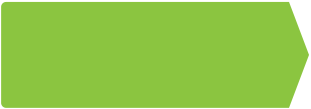
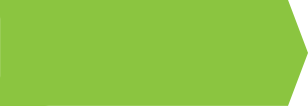
add responsive breakpoint styles

Changed region(s): [[0.0, 0.0, 1.0, 1.0]]

diff --git a/pages/index.tsx b/pages/index.tsx
@@ -5,6 +5,7 @@ import Image from "next/image";
 
 // assets
 import logo from "../public/assets/logo.png";
+import pointed from "../public/assets/pointed.png";
 
 const Home: NextPage = () => {
   return (
@@ -16,48 +17,66 @@ const Home: NextPage = () => {
       </Head>
 
       <div className="banner-container w-full h-screen bg-[#ebebeb]">
-        <div className="w-full h-full bg-[url('../public/assets/bg.png')] bg-no-repeat bg-cover bg-center pt-44 pb-16 flex flex-col justify-between">
-          <div className="tagline-container w-[55%] min-h-[230px]  py-10 px-32 flex justify-end gradient-white">
-            <p className="text-textColor text-4xl font-medium italic leading-[1]">
-              <div className="inline mr-4">
-                <Image src={logo} height="80" width="318" objectFit="inherit" />
+        <div className="background-container w-full h-full bg-[url('../public/assets/bg.png')] bg-no-repeat bg-cover bg-center pt-44 pb-5 md:pb-16 flex flex-col justify-between">
+          <div className="TAGLINE-CONTAINER w-[70%] md:w-[60%] lg:w-[55%] min-h-[130px] md:min-h-[230px] 2xl:min-h-[350px] py-5 md:py-10 px-5 md:px-14 lg:px-24 xl:px-32 2xl:px-40 flex justify-end gradient-white">
+            <p className="TAGLINE text-textColor text-lg md:text-xl lg:text-xl xl:text-3xl 2xl:text-5xl font-semibold md:font-medium italic leading-[1] md:leading-[1]">
+              <div className="inline-block mr-2 md:mr-4 h-[40px] md:h-[50px] lg:h-[45px] xl:h-[55px] 2xl:h-[100px] w-[159px] md:w-[199px] lg:w-[179px] xl:w-[219px] 2xl:w-[398px] relative">
+                <Image
+                  src={logo}
+                  alt="FloQast"
+                  layout="fill"
+                  objectFit="inherit"
+                />
               </div>
               The <br />
-              <span className="text-main text-[3.5rem]">
+              <span className="text-main text-[1.27rem] md:text-[2rem] lg:text-[2.2rem] xl:text-[2.7rem] 2xl:text-[3.8rem] font-semibold">
                 Fastest, Most Accurate <br />
               </span>
-              Way to Close Your Books!
+              Way to Close Your Books
             </p>
           </div>
 
           <div className="wrapper w-full">
-            <div className="form-container mx-auto min-h-[156px] w-[70%] bg-white grid grid-cols-[30%_1fr]">
-              <div className="form-web-left text-white bg-main flex flex-col justify-center items-center relative ">
-                <p className="font-bold text-[2rem] leading-none">
+            <div className="form-container mx-auto h-auto lg:min-h-[100px] xl:min-h-[118px] 2xl:min-h-[156px] w-[80%] md:w-[70%] bg-white grid grid-cols-1 lg:grid-cols-[30%_1fr] rounded-l-2xl">
+              {/* <div className="form-web-left text-white bg-white flex flex-col justify-center items-center relative bg-[url('../public/assets/pointed.png')] bg-cover bg-center"> */}
+              {/* FOR WEB DISPLAYS */}
+              <div className="form-web-left text-white bg-white hidden lg:flex flex-col justify-center items-center relative">
+                <Image src={pointed} layout="fill" />
+                <p className="font-bold xl:text-[1.5rem] 2xl:text-[2rem] leading-none z-10">
                   SCHEDULE A DEMO
                 </p>
-                <p className="text-[1.4rem]">Learn More About FloQast</p>
+                <p className="lg:text-xs xl:text-[1rem] 2xl:text-[1.4rem] z-10">
+                  Learn More About FloQast
+                </p>
+              </div>
+              {/* FOR TABLET/PHONE DISPLAYS */}
+              <div className="bg-main text-white lg:hidden flex flex-col justify-center items-center p-4">
+                <p className="font-bold leading-none text-[1.5rem] md:text-2xl">
+                  SCHEDULE A DEMO
+                </p>
+                <p className="text-base md:text-lg">Learn More About FloQast</p>
               </div>
 
-              <div className="form-web-right grid grid-rows-2">
-                <div className="top w-full flex justify-center items-center">
-                  <p className="text-textColor text-[1.7rem] font-semibold ">
+              <div className="form-web-right grid grid-rows-[1fr_2fr] lg:grid-rows-2 p-4 md:p-4">
+                <div className="TOP w-full flex justify-center items-center">
+                  <p className="text-textColor text-center text-[1rem] md:text-[1.3rem] xl:text-[1.25rem] 2xl:text-[1.7rem] font-semibold ">
                     Learn How FloQast Can{" "}
                     <span className="text-main">Improve Your Month-End</span>
                   </p>
                 </div>
-                <div className="bot flex gap-4 pl-16 pr-6">
+
+                <div className="BOT flex flex-col lg:flex-row items-start gap-2 md:gap-2 xl:gap-2 2xl:gap-4 md:p-4 lg:p-0 lg:pl-2 xl:pl-6 2xl:pl-16 lg:pr-2 xl:pr-3 2xl:pr-6">
                   <input
                     type="text"
                     placeholder="First Name*"
-                    className="flex-1 px-4 border-[1px] border-gray-200 h-[70%]"
+                    className="w-full xl:flex-grow px-4 border-[1px] border-gray-200 h-[3rem] lg:h-[90%]"
                   />
                   <input
                     type="text"
                     placeholder="Email*"
-                    className="flex-1 px-4 border-[1px] border-gray-200 h-[70%]"
+                    className="w-full xl:flex-grow px-4 border-[1px] border-gray-200 h-[3rem] lg:h-[90%]"
                   />
-                  <button className="flex-1 rounded-lg bg-main border-2 border-[#749D40] text-white h-[80%]">
+                  <button className="w-full xl:flex-grow lg:text-xs xl:text-sm 2xl:text-base xl:rounded-sm 2xl:rounded-lg bg-main border-2 border-[#749D40] text-white h-[3rem] lg:h-[90%]">
                     SCHEDULE NOW
                   </button>
                 </div>

diff --git a/styles/globals.css b/styles/globals.css
@@ -8,7 +8,7 @@ body {
   margin: 0;
   /* font-family: -apple-system, BlinkMacSystemFont, Segoe UI, Roboto, Oxygen,
     Ubuntu, Cantarell, Fira Sans, Droid Sans, Helvetica Neue, sans-serif; */
-    font-family: Roboto, Helvetica;
+  font-family: Roboto, Helvetica;
 }
 
 a {
@@ -22,11 +22,16 @@ a {
   margin: 0;
 }
 
-.gradient-white{
-  background: linear-gradient(89.92deg, #FFFFFF -0.67%, rgba(255, 255, 255, 0.85) 72.56%, rgba(255, 255, 255, 0) 101.64%);
+.gradient-white {
+  background: linear-gradient(
+    89.92deg,
+    #ffffff -0.67%,
+    rgba(255, 255, 255, 0.85) 72.56%,
+    rgba(255, 255, 255, 0) 101.64%
+  );
 }
 
-.form-web-left:after{
+/* .form-web-left:after {
   content: "";
   position: absolute;
   right: -29px;
@@ -37,3 +42,32 @@ a {
   border-top: 80px solid transparent;
   border-bottom: 80px solid transparent;
 }
+
+
+
+@media only screen and (min-width: 1280px) {
+  .form-web-left:after {
+    content: "";
+    position: absolute;
+    right: -30px;
+    bottom: 0;
+    width: 0;
+    height: 0;
+    border-left: 30px solid #8bc540;
+    border-top: 50px solid transparent;
+    border-bottom: 50px solid transparent;
+  }
+}
+@media only screen and (min-width: 1536px) {
+  .form-web-left:after {
+    content: "";
+    position: absolute;
+    right: -29px;
+    bottom: 0;
+    width: 0;
+    height: 0;
+    border-left: 30px solid #8bc540;
+    border-top: 80px solid transparent;
+    border-bottom: 80px solid transparent;
+  }
+} */
